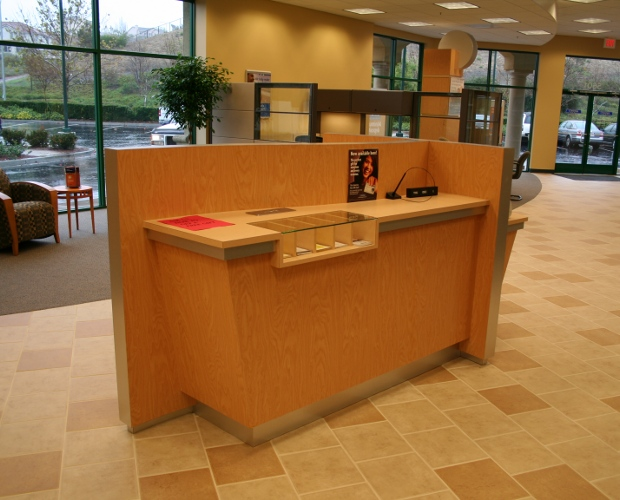
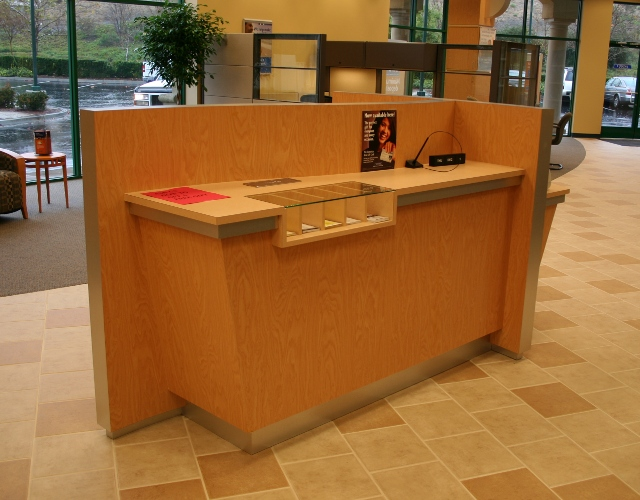
Got single project page working - still need to replace image when viewed through smaller viewport

diff --git a/project1.html b/project1.html
@@ -13,6 +13,18 @@
   <link rel="stylesheet" href="css/style.css">
 
   <script src="js/libs/modernizr-2.5.3.min.js"></script>
+
+  <style>
+#layerslider {
+  padding: 0;
+}
+
+.ls-layer img {
+  height: 510px;
+  width: 640px;
+  margin: 0;
+}
+  </style>
 </head>
 <body>
   <!--[if lt IE 7]><p class=chromeframe>Your browser is <em>ancient!</em> <a href="http://browsehappy.com/">Upgrade to a different browser</a> or <a href="http://www.google.com/chromeframe/?redirect=true">install Google Chrome Frame</a> to experience this site.</p><![endif]-->
@@ -74,19 +86,16 @@
 
               <div id="layerslider" class="slider_portfolio slider">
 
-                <div class="ls-layer" rel="slidedelay: 3000; durationin: 600">
+                <div class="ls-layer" rel="slidedelay: 6000; durationin: 600">
                  <img src="img/singleproject1.jpg">
                 </div>
                 <div class="ls-layer" rel="slidedelay: 6000; durationin: 600">
-                  <img class="ls-s3" src="img/temp/slide_1_1.png" alt="sublayer" style="width: 80%; left:50%; top: 52%;" rel="slidedirection: bottom; durationin: 800; easingin: easeOutExpo; delayin: 500; delayout: 50">
-
-                  <img class="ls-s3" src="img/temp/slide_1_2.png" alt="sublayer" style="left:65%; top: 75%;" rel="slidedirection: bottom; durationin: 1600; easingin: easeOutExpo; delayin: 600; delayout: 50">
+                  <img src="img/singleproject2.jpg" >
                 </div>
                 <div class="ls-layer" rel="slidedelay: 6000; durationin: 600">
-                  <img class="ls-s3" src="img/temp/slide_1_1.png" alt="sublayer" style="width: 80%; left:50%; top: 52%;" rel="slidedirection: bottom; durationin: 800; easingin: easeOutExpo; delayin: 500; delayout: 50">
-
-                  <img class="ls-s3" src="img/temp/slide_1_2.png" alt="sublayer" style="left:65%; top: 75%;" rel="slidedirection: bottom; durationin: 1600; easingin: easeOutExpo; delayin: 600; delayout: 50">
+                  <img src="img/singleproject3.jpg" >
                 </div>
+
 
               </div>
                
